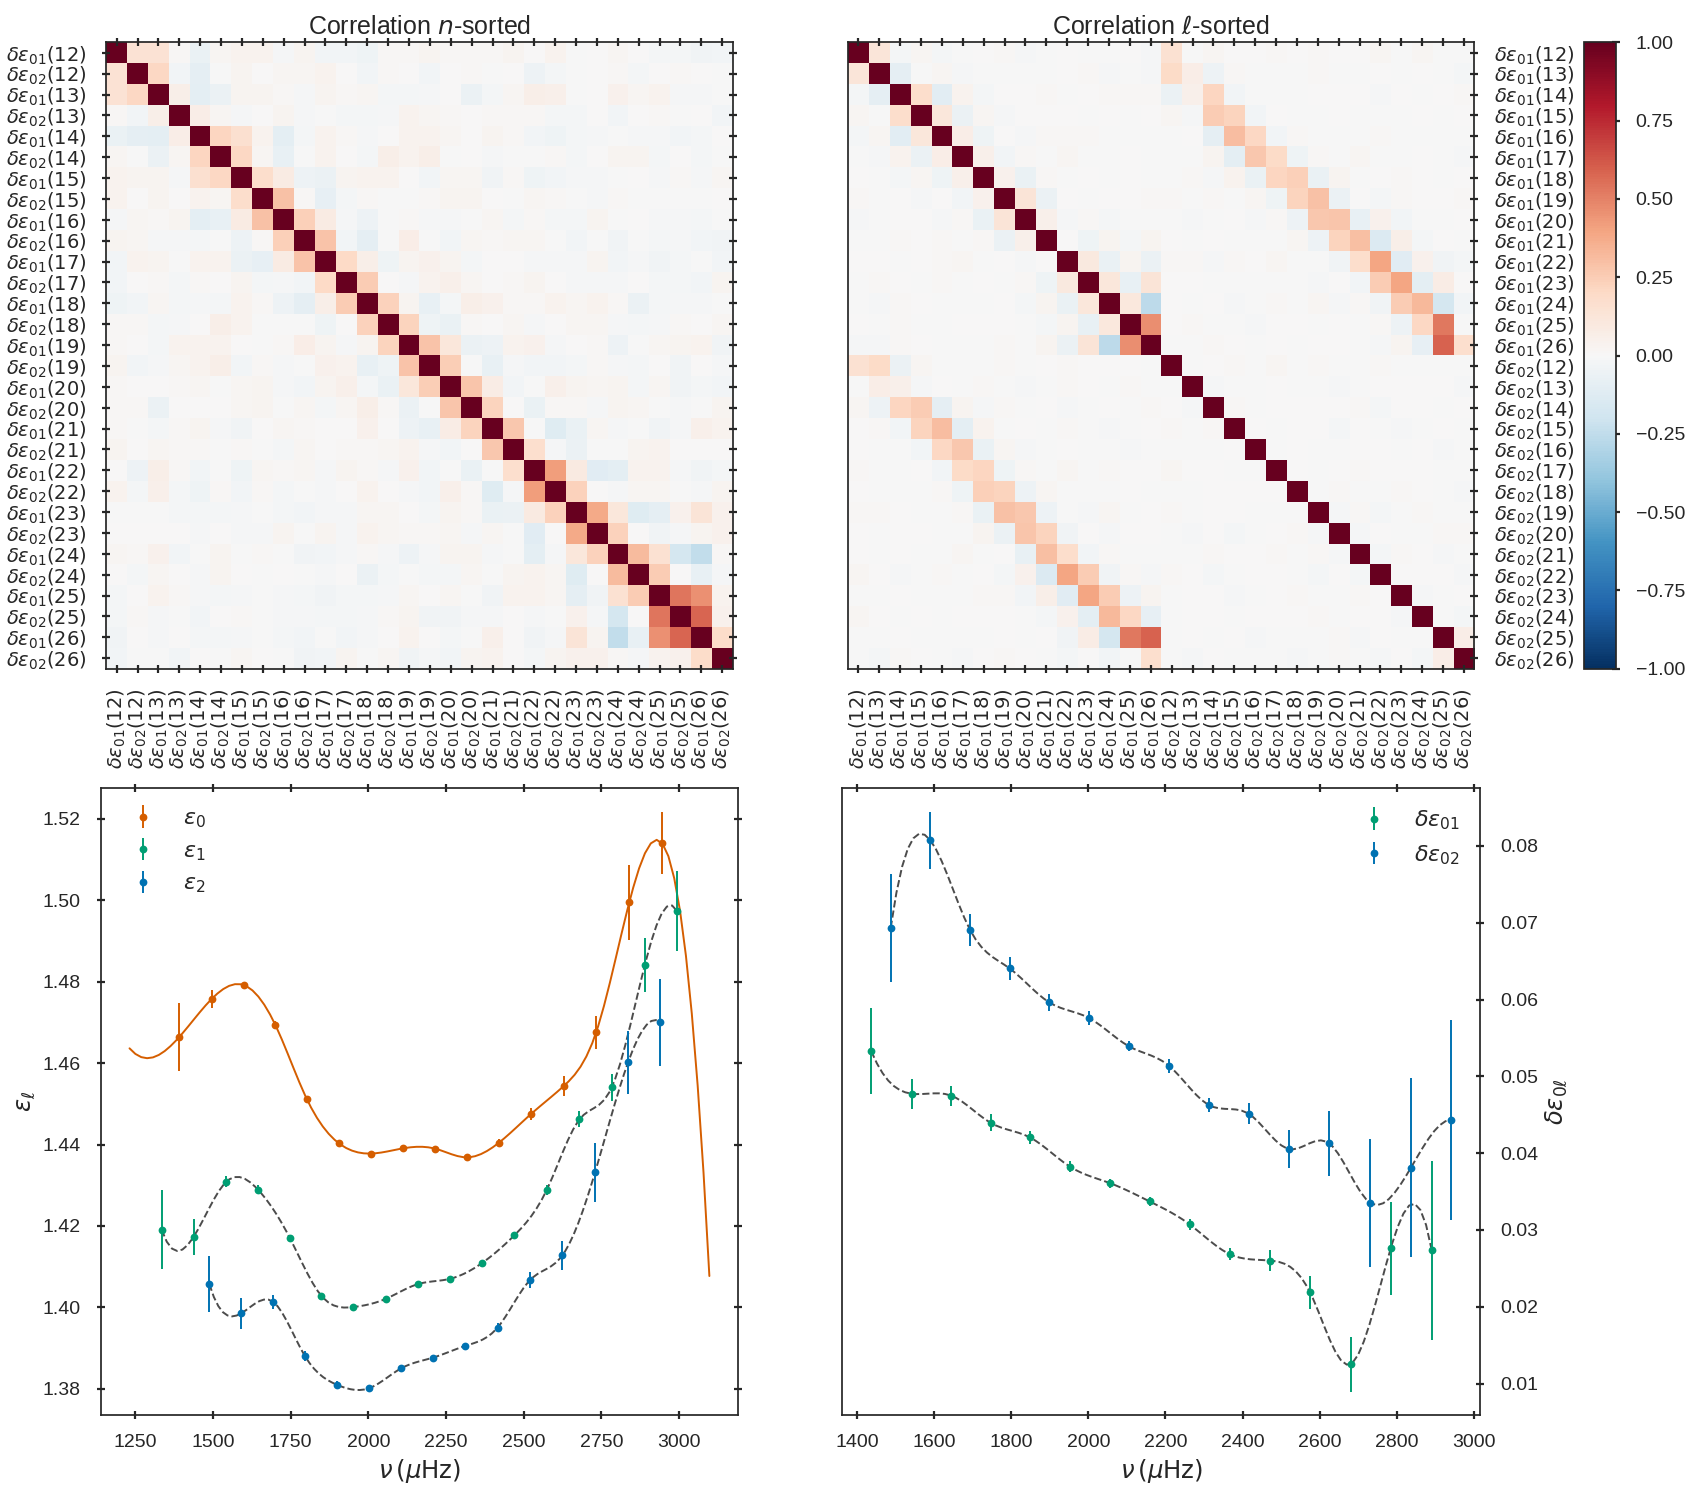
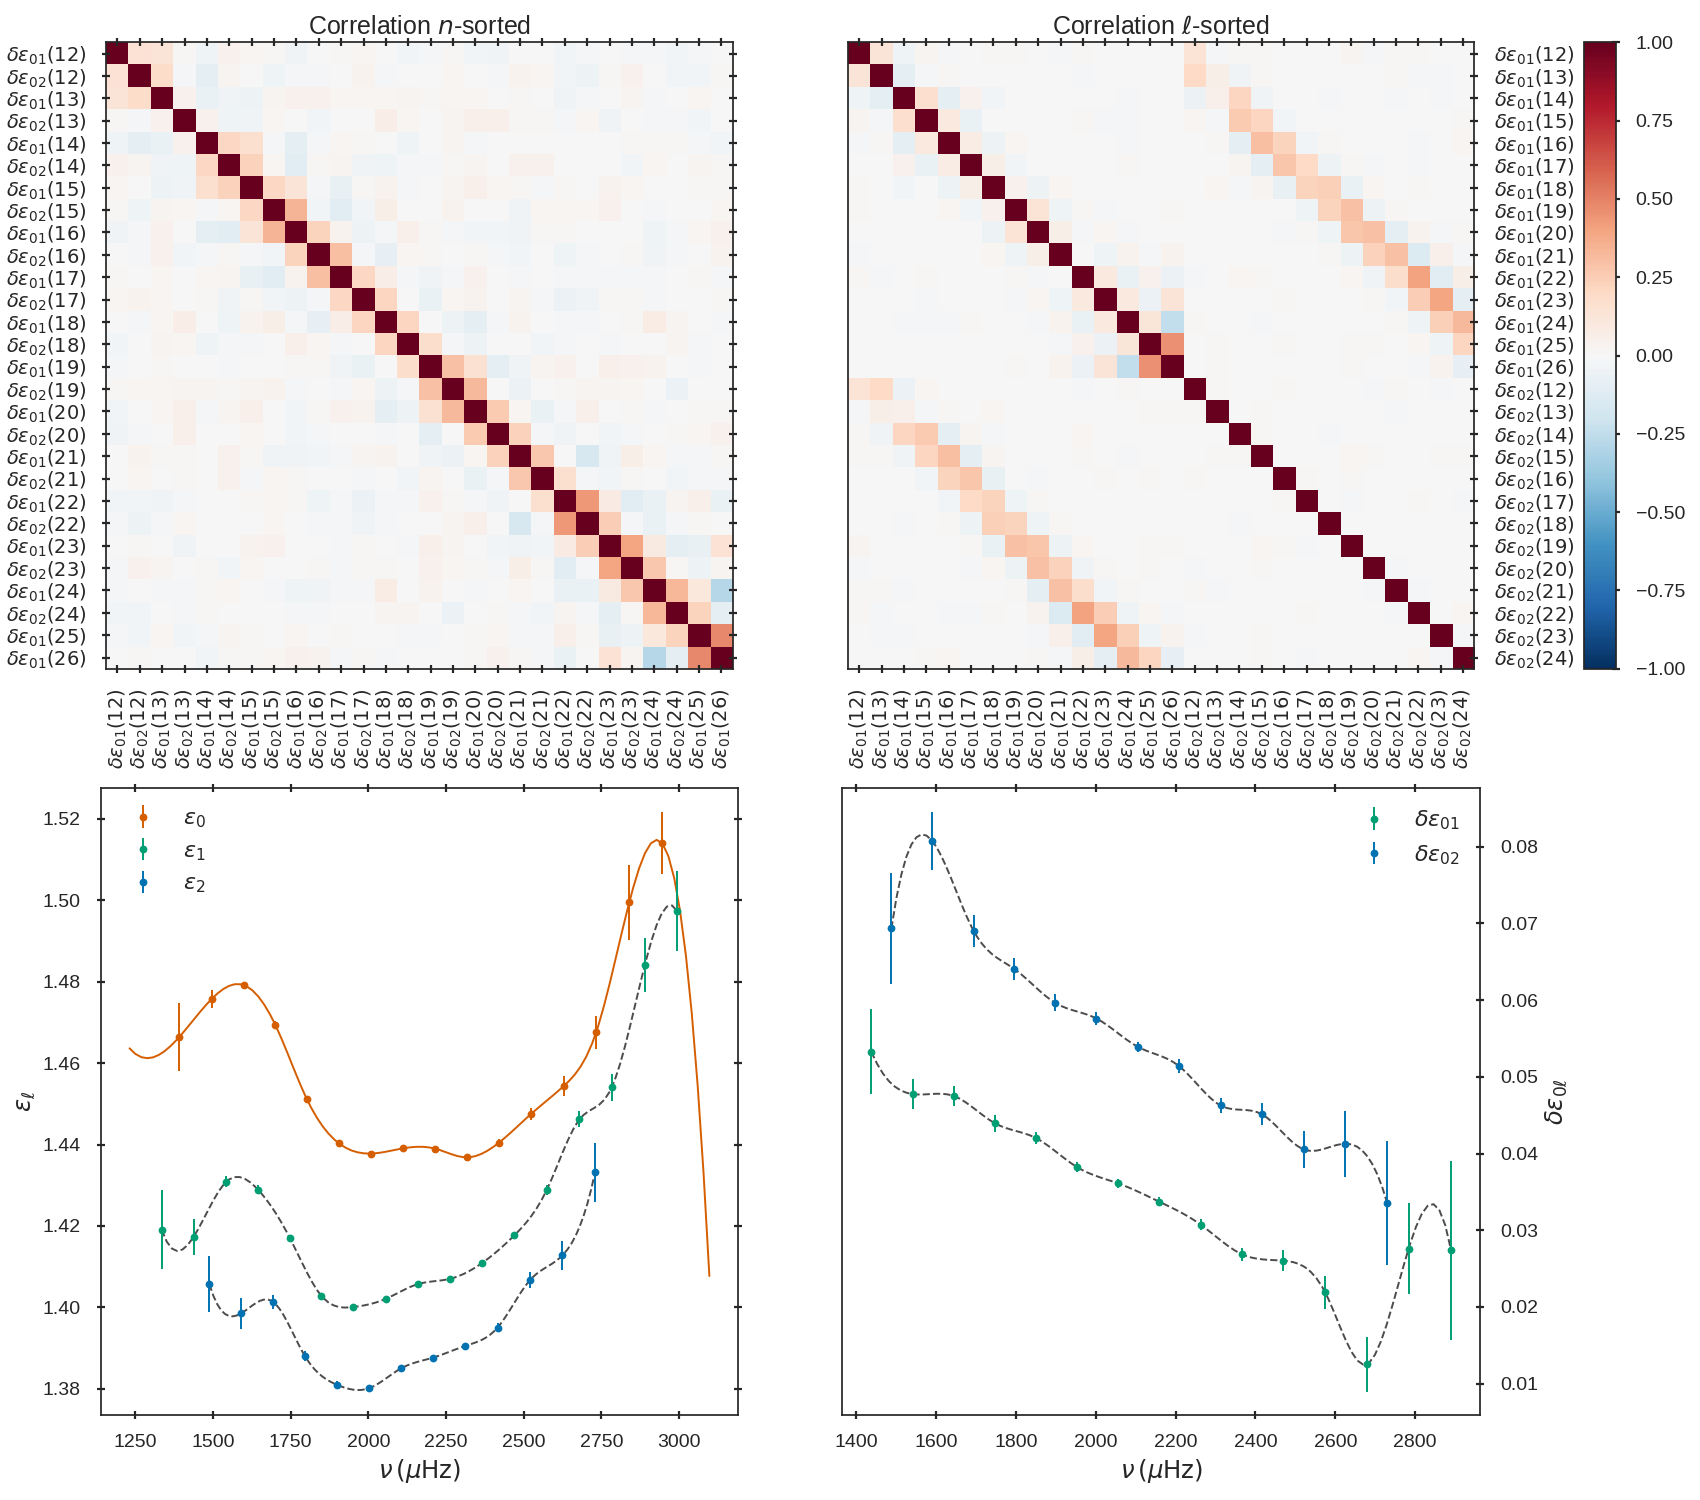
Re-introduced the possibility to un-correlate ratios and epsilon differences

diff --git a/basta/fileio.py b/basta/fileio.py
@@ -1534,6 +1534,13 @@ def read_allseismic(
                     epsdiff_plotname,
                 )
 
+    # Diagonalise covariance matrices if correlations is set to False
+    if not fitfreqs["correlations"]:
+        for key in obsfreqdata.keys():
+            for mat in ["cov", "covinv"]:
+                full = obsfreqdata[key][mat]
+                obsfreqdata[key][mat] = np.identity(full.shape[0]) * full
+
     return obskey, obs, obsfreqdata, obsfreqmeta
 
 

diff --git a/basta/xml_create.py b/basta/xml_create.py
@@ -292,6 +292,7 @@ def generate_xml(
     if freqparams and any(x in fitparams for x in freqtypes.alltypes):
         freqelement = SubElement(default, "freqparams")
         for param in freqparams:
+            # Nottrusted is handled in `create_xmltag`
             if param == "nottrustedfile":
                 continue
             SubElement(freqelement, param, {"value": str(freqparams[param])})
